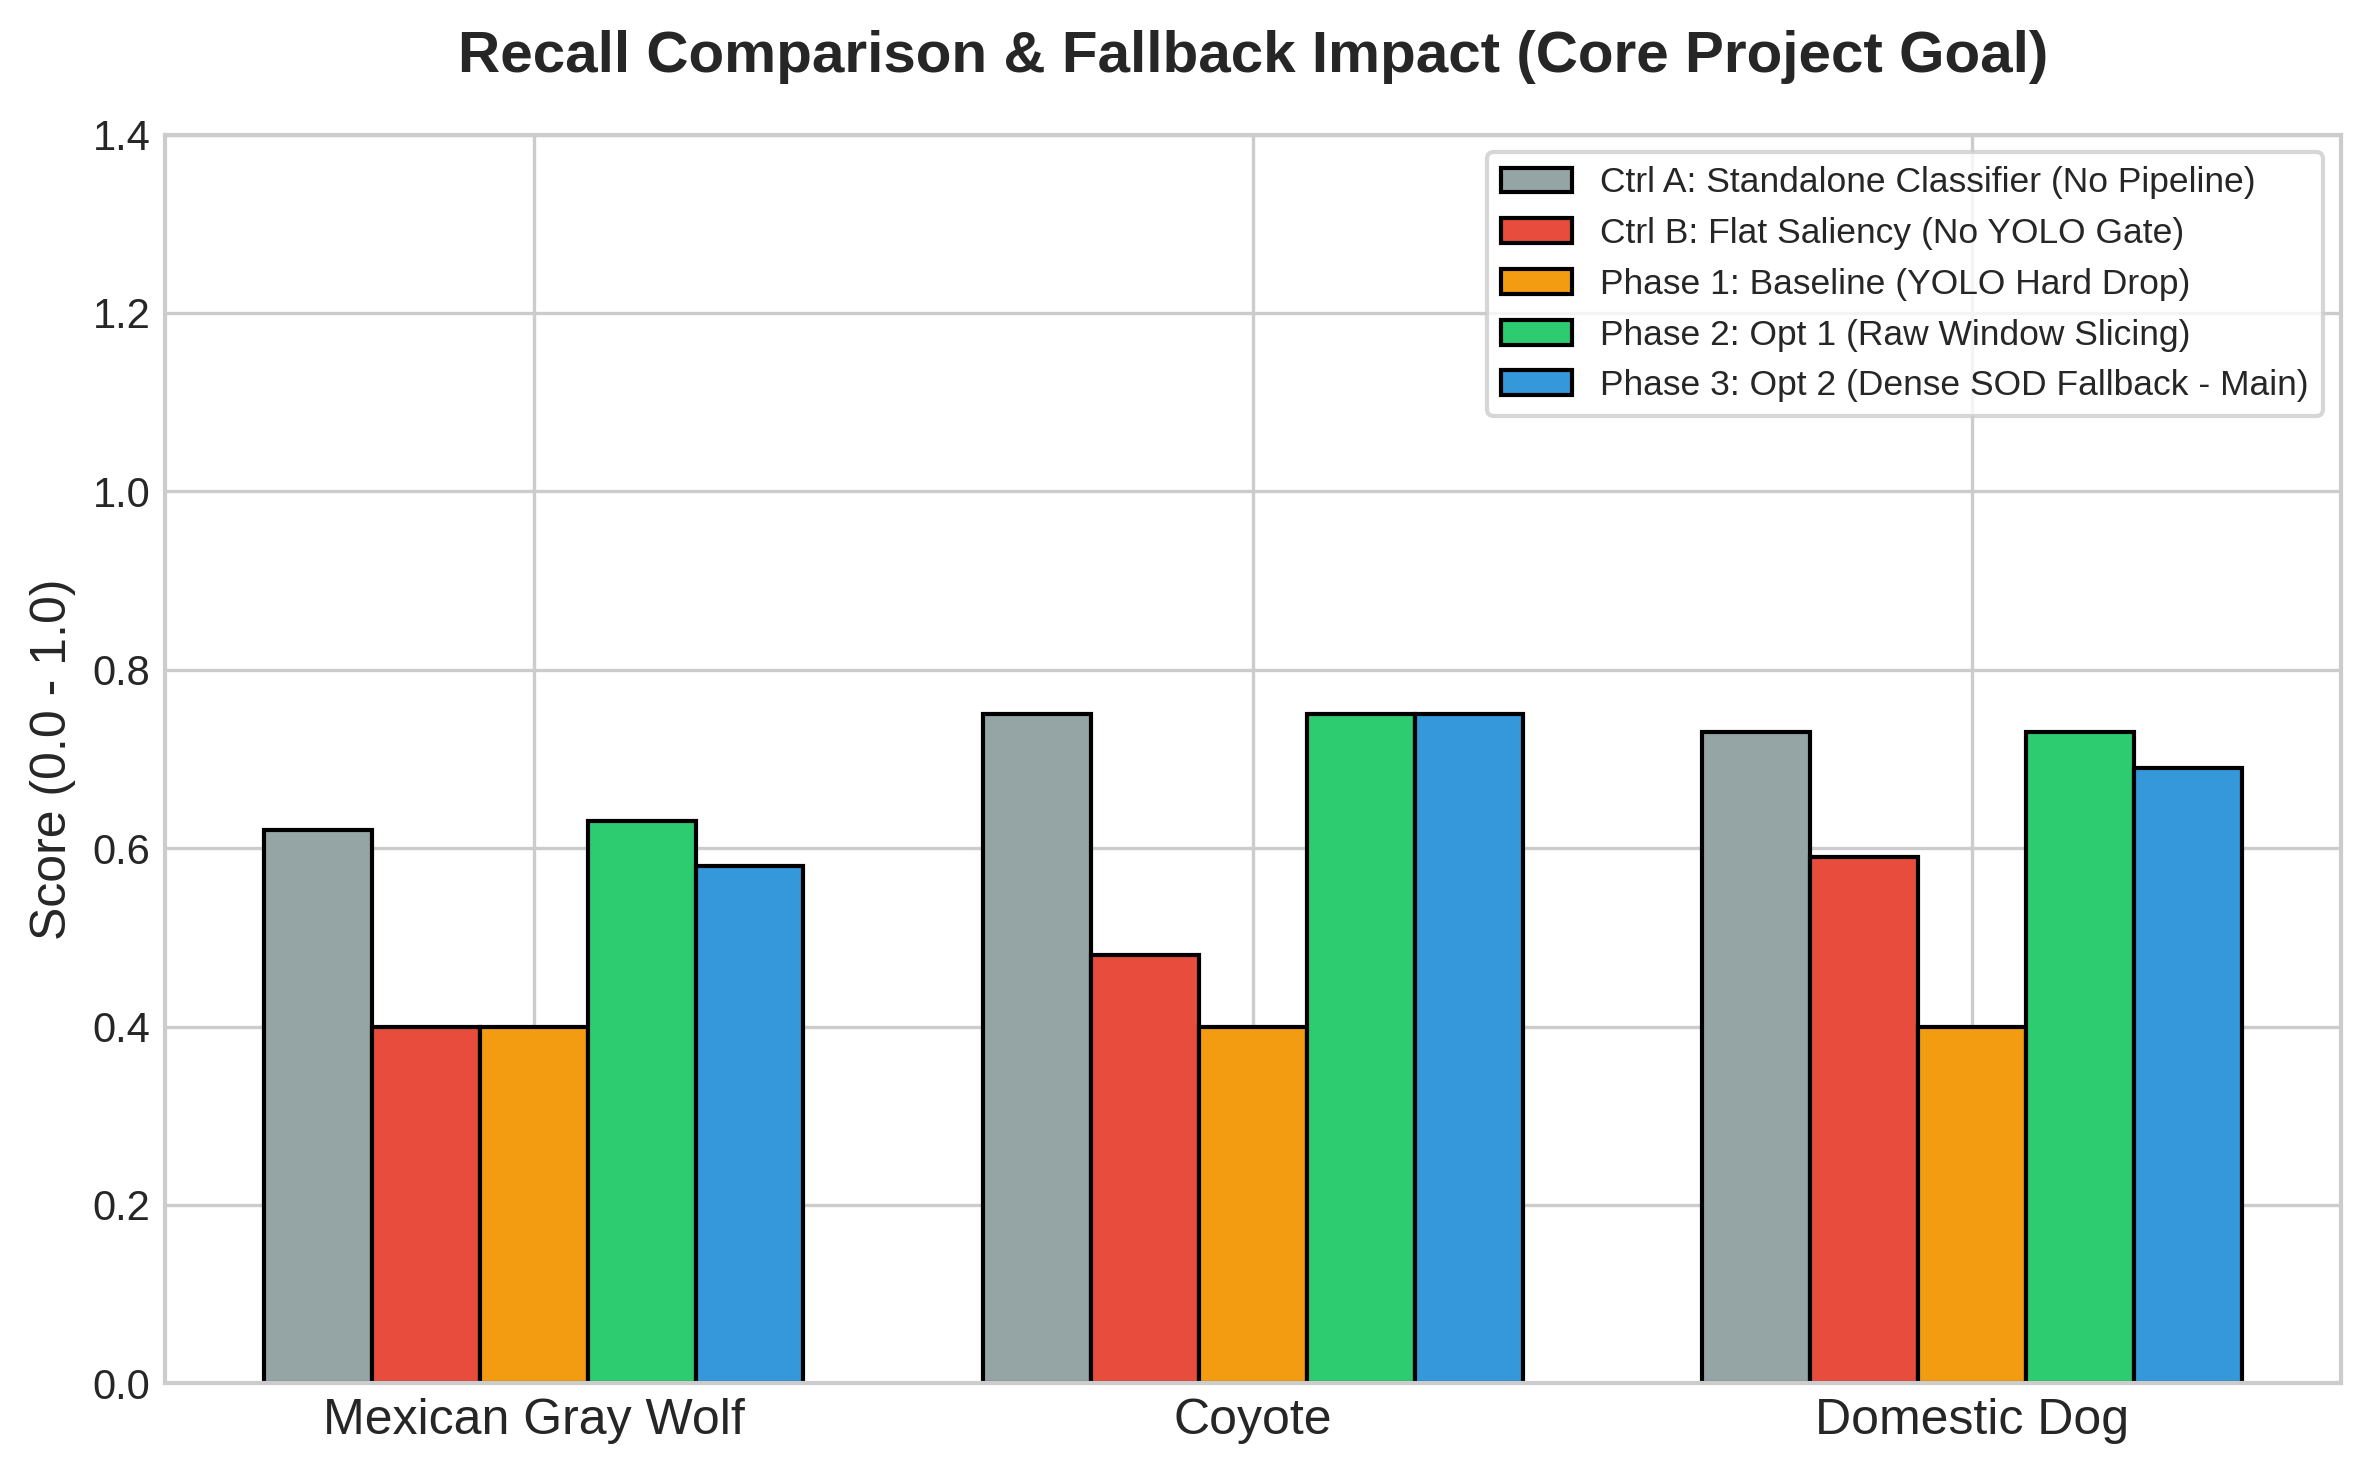
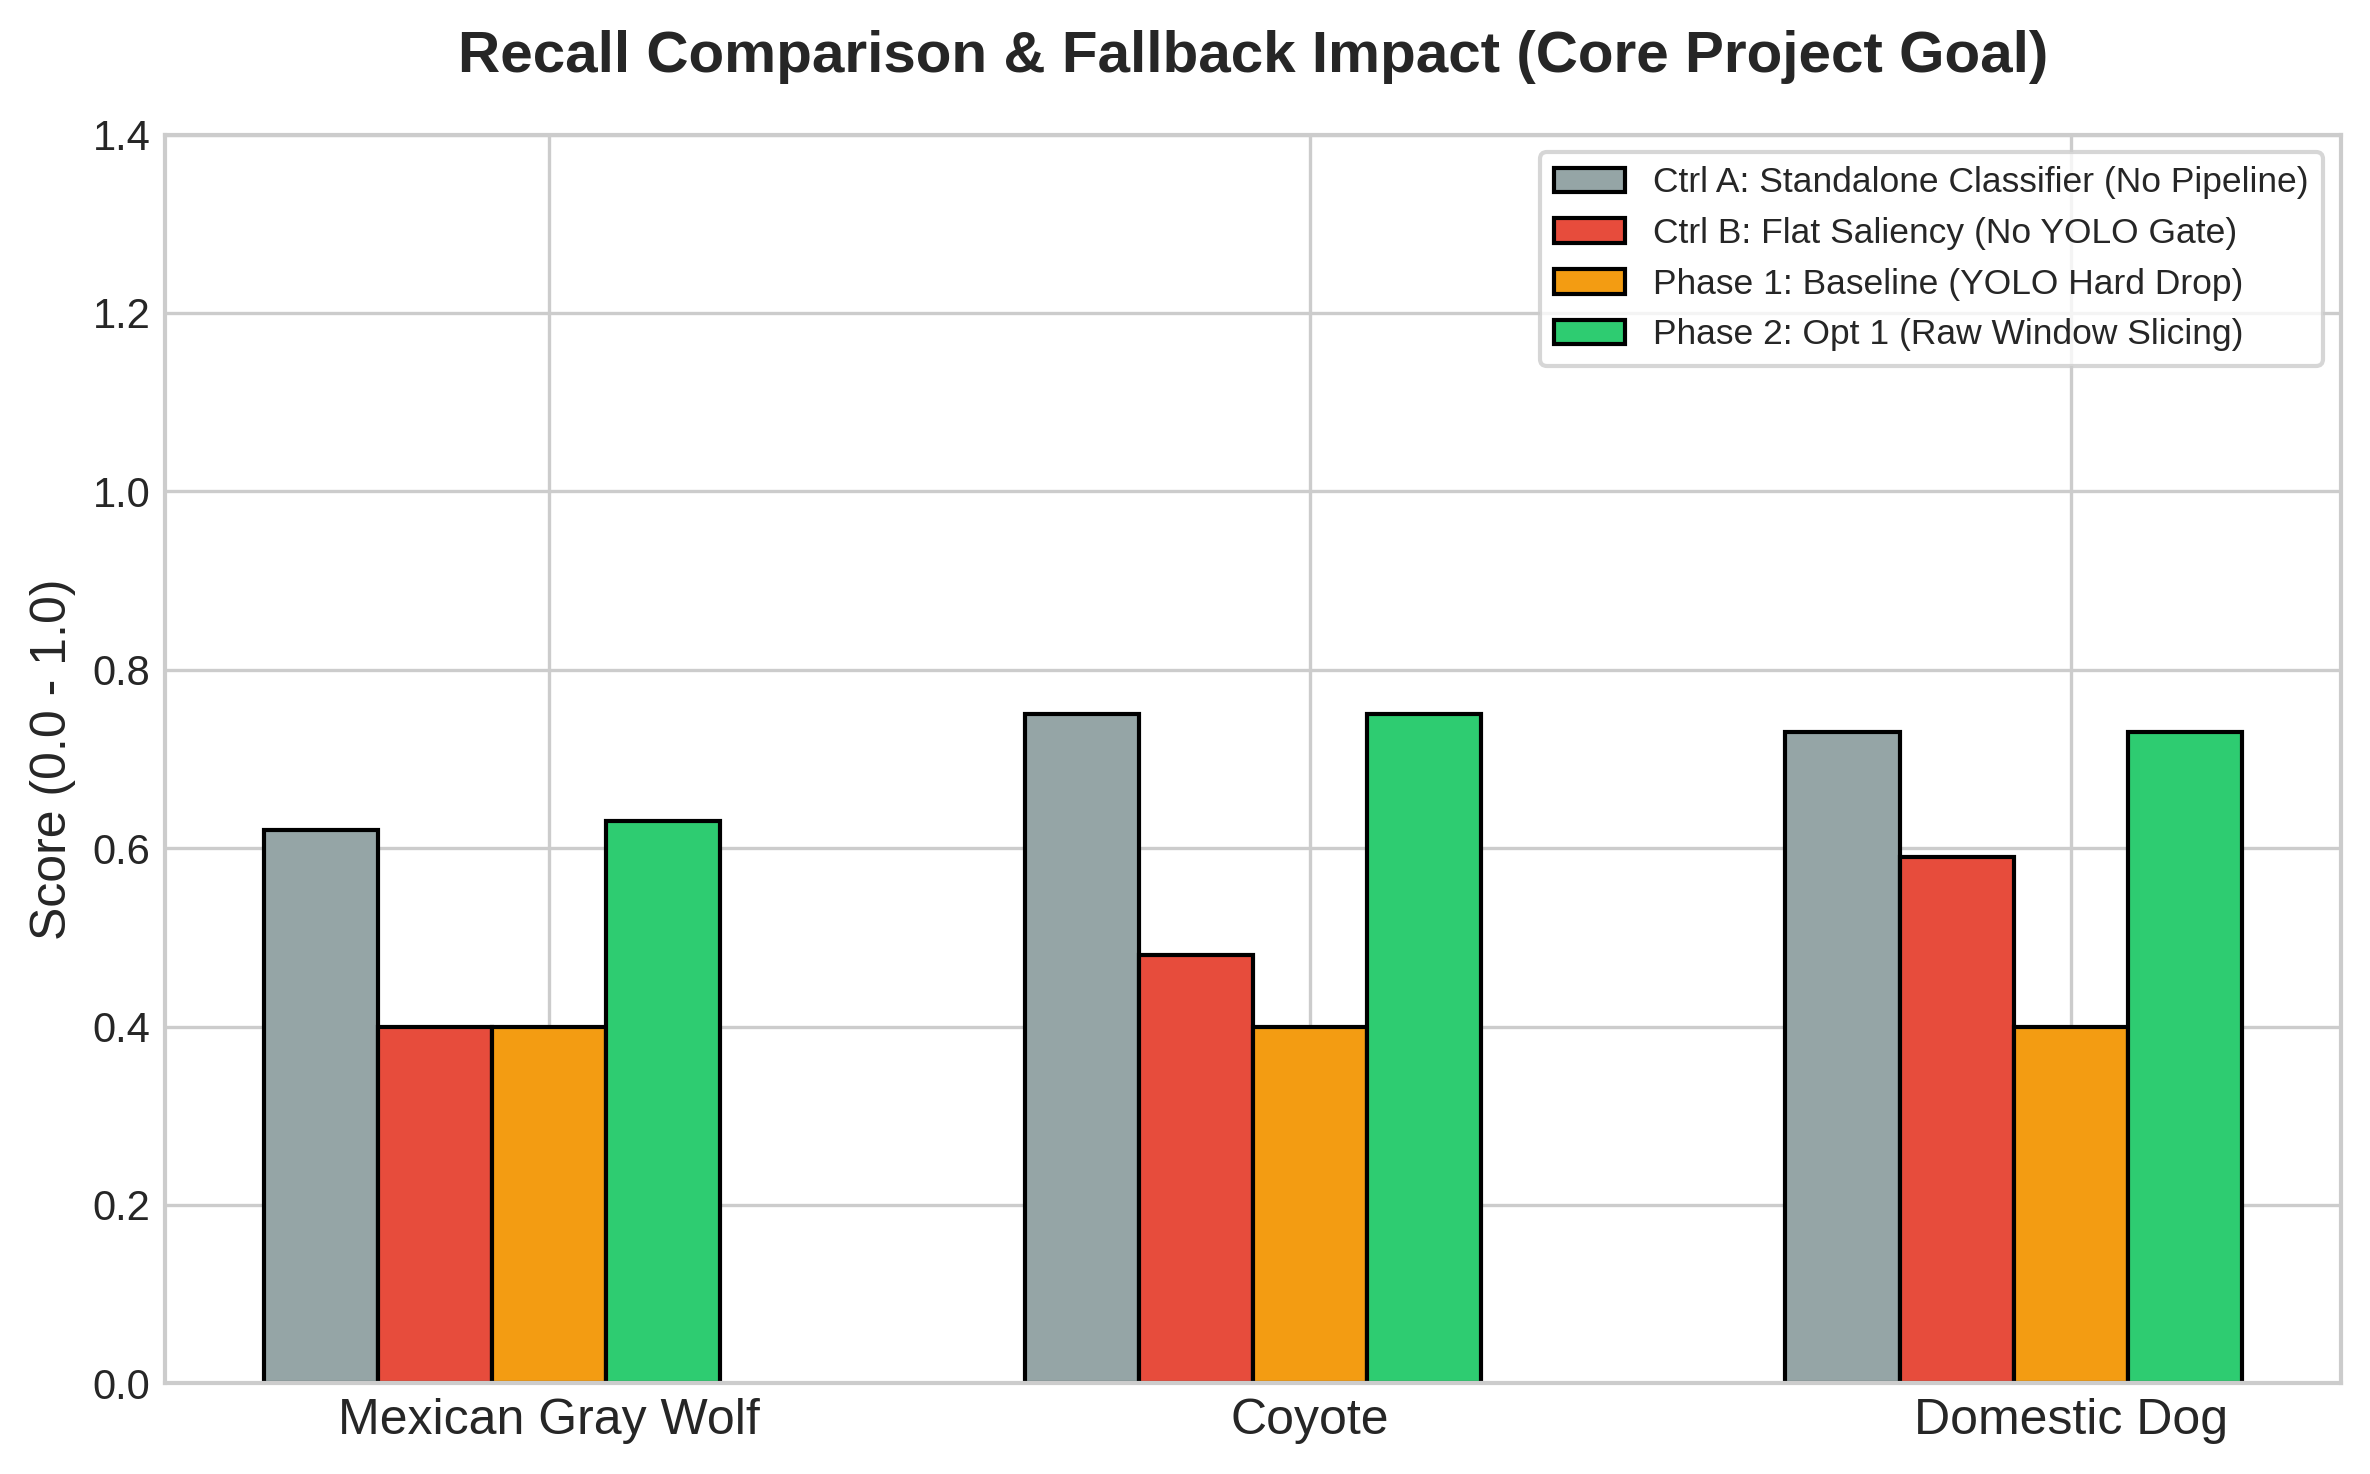
Removed Opt 2 Configuration and generated respective metric plots

diff --git a/WildlifeRecognitionModel/generate_defense_plots.py b/WildlifeRecognitionModel/generate_defense_plots.py
@@ -28,10 +28,6 @@ opt2_p = [0.93, 0.94, 0.92]
 opt2_r = [0.63, 0.75, 0.73]
 opt2_f1 = [0.74, 0.84, 0.81]
 
-# 5. Flat Saliency Pipeline (Stage 1 YOLO Bypassed - All frames direct to 85% Saliency Crop)
-flat_sod_p = [0.92, 0.91, 0.87]
-flat_sod_r = [0.58, 0.75, 0.69]
-flat_sod_f1 = [0.71, 0.82, 0.77]
 
 # Plot configs
 plt.style.use('seaborn-v0_8-whitegrid' if 'seaborn-v0_8-whitegrid' in plt.style.available else 'default')
@@ -40,15 +36,14 @@ labels = [
     'Ctrl A: Standalone Classifier (No Pipeline)',
     'Ctrl B: Flat Saliency (No YOLO Gate)',
     'Phase 1: Baseline (YOLO Hard Drop)',
-    'Phase 2: Opt 1 (Raw Window Slicing)',
-    'Phase 3: Opt 2 (Dense SOD Fallback - Main)'
+    'Phase 2: Opt 1 (Raw Window Slicing)'
 ]
 
 # Package data structures for clean iteration loops
 metrics_bundles = [
-    {"name": "precision", "title": "Precision Evolution Across Layouts", "data": [standalone_p, baseline_p, opt1_p, opt2_p, flat_sod_p]},
-    {"name": "recall", "title": "Recall Comparison & Fallback Impact (Core Project Goal)", "data": [standalone_r, baseline_r, opt1_r, opt2_r, flat_sod_r]},
-    {"name": "f1_score", "title": "F1-Score Metrics Synthesis (Overall System Balance)", "data": [standalone_f1, baseline_f1, opt1_f1, opt2_f1, flat_sod_f1]}
+    {"name": "precision", "title": "Precision Evolution Across Layouts", "data": [standalone_p, baseline_p, opt1_p, opt2_p]},
+    {"name": "recall", "title": "Recall Comparison & Fallback Impact (Core Project Goal)", "data": [standalone_r, baseline_r, opt1_r, opt2_r]},
+    {"name": "f1_score", "title": "F1-Score Metrics Synthesis (Overall System Balance)", "data": [standalone_f1, baseline_f1, opt1_f1, opt2_f1]}
 ]
 
 # =========================================================================
@@ -62,7 +57,6 @@ for idx, bundle in enumerate(metrics_bundles):
     axs[idx].bar(x - width, d[1], width, label=labels[1], color=colors[1], edgecolor='black')
     axs[idx].bar(x, d[2], width, label=labels[2], color=colors[2], edgecolor='black')
     axs[idx].bar(x + width, d[3], width, label=labels[3], color=colors[3], edgecolor='black')
-    axs[idx].bar(x + 2*width, d[4], width, label=labels[4], color=colors[4], edgecolor='black')
     
     axs[idx].set_title(bundle["title"], fontsize=13, fontweight='bold')
     axs[idx].set_xticks(x)
@@ -90,7 +84,6 @@ for i, bundle in enumerate(metrics_bundles):
     ax.bar(x - width, d[1], width, label=labels[1], color=colors[1], edgecolor='black')
     ax.bar(x, d[2], width, label=labels[2], color=colors[2], edgecolor='black')
     ax.bar(x + width, d[3], width, label=labels[3], color=colors[3], edgecolor='black')
-    ax.bar(x + 2*width, d[4], width, label=labels[4], color=colors[4], edgecolor='black')
     
     ax.set_title(bundle["title"], fontsize=14, fontweight='bold', pad=15)
     ax.set_xticks(x)
